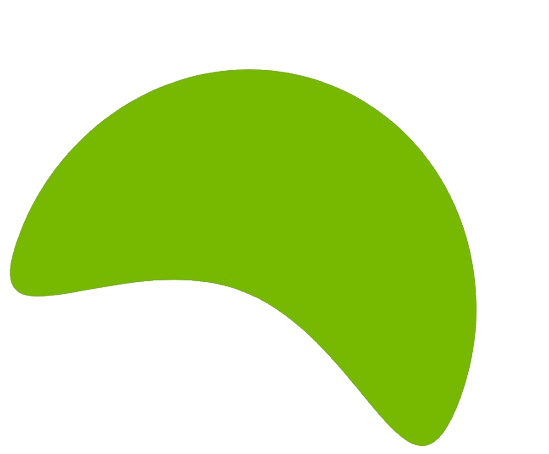
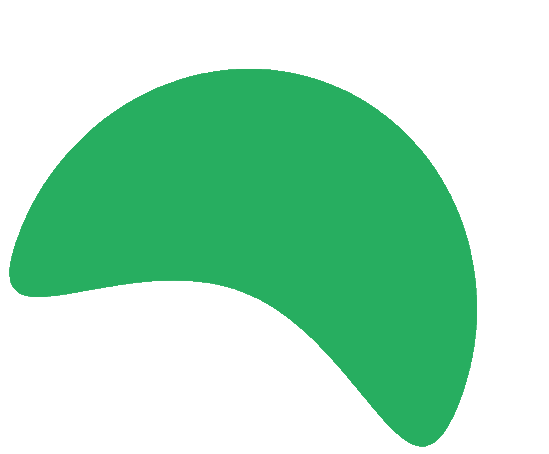
styling

diff --git a/index.html b/index.html
@@ -6,8 +6,8 @@
     <meta name="viewport" content="width=device-width, initial-scale=1.0">
     <meta http-equiv="X-UA-Compatible" content="IE=edge" />
     <meta http-equiv="X-UA-Compatible" content="ie=edge">
-    <title>Byberbyte - Premium Dedicated Servers and Cloud VPS Solutions</title>
-    <link rel=icon href="assets/img/favicon.webp" sizes="20x20" type="image/png">
+    <title>Hyberbyte - Premium Dedicated Servers and Cloud VPS Solutions</title>
+    <link rel=icon href="assets/img/4w.png" sizes="20x20" type="image/png">
 
     <!-- Stylesheet -->
     <link rel="stylesheet" href="assets/css/bootstrap.min.css">
@@ -59,7 +59,11 @@
                 </button>
             </div>
             <div class="logo">
-                <a href="index.html"><img src="assets/img/logo.webp" alt="img"></a>
+                <!-- <a href="index.html"><img src="assets/img/logo.webp" alt="img"></a> -->
+                <!-- <a href="index.html"><img src="assets/img/1.png" alt="img"></a> -->
+                <!-- <a href="index.html"><img src="assets/img/2.png" alt="img"></a> -->
+                <!-- <a href="index.html"><img src="assets/img/3.png" alt="img"></a> -->
+                <a href="index.html"><img src="assets/img/4.png" alt="img"></a>
             </div>
             <div class="nav-right-part nav-right-part-mobile">
                 <a class="search-bar-btn" href="#">
@@ -87,7 +91,7 @@
             </div>
             <div class="nav-right-part nav-right-part-desktop align-self-center">
 
-                <a class="btn btn-base" href="#">Get Started</a>
+                <a class="btn btn-base" href="#contactUs">Get Started</a>
             </div>
         </div>
     </nav>
@@ -108,12 +112,12 @@
                 </div>
                 <div class="col-lg-6 col-md-9 order-lg-first align-self-center">
                     <div class="banner-inner style-white  text-center text-lg-start">
-                        <h4 class="sub-title">Byber Byte</h4>
+                        <h4 class="sub-title">Hyber Byte</h4>
                         <h2 class="title">Premium Dedicated Servers and Cloud VPS Solutions</h2>
                         <p class="content">Unparalleled performance and 24/7 support for your hosting needs.</p>
                         <div class="btn-wrap">
-                            <a class="btn btn-base me-2" href="blog.html">Get Started</a>
-                            <a class="btn btn-border-white" href="contact.html">Contact Us</a>
+                            <a class="btn btn-base me-2" href="#contactUs">Get Started</a>
+                            <a class="btn btn-border-white" href="#contactUs">Contact Us</a>
                         </div>
                     </div>
                 </div>
@@ -160,7 +164,7 @@
                                 <li class="close">Delivery time: within 24 hours
                                 </li>
                             </ul>
-                            <a class="btn btn-black w-100" href="#">Get Started</a>
+                            <a class="btn btn-black w-100" href="#contactUs">Get Started</a>
                         </div>
                     </div>
                 </div>
@@ -189,7 +193,7 @@
                                 </li>
 
                             </ul>
-                            <a class="btn btn-black w-100" href="#">Get Started</a>
+                            <a class="btn btn-black w-100" href="#contactUs">Get Started</a>
                         </div>
                     </div>
                 </div>
@@ -217,7 +221,7 @@
                                 <li class="close">Delivery time: within 24 hours
                                 </li>
                             </ul>
-                            <a class="btn btn-black w-100" href="#">Get Started</a>
+                            <a class="btn btn-black w-100" href="#contactUs">Get Started</a>
                         </div>
                     </div>
                 </div>
@@ -247,7 +251,7 @@
                                 <li class="close">Delivery time: within 24 hours
                                 </li>
                             </ul>
-                            <a class="btn btn-black w-100" href="#">Get Started</a>
+                            <a class="btn btn-black w-100" href="#contactUs">Get Started</a>
                         </div>
                     </div>
                 </div>
@@ -276,7 +280,7 @@
                                 </li>
 
                             </ul>
-                            <a class="btn btn-black w-100" href="#">Get Started</a>
+                            <a class="btn btn-black w-100" href="#contactUs">Get Started</a>
                         </div>
                     </div>
                 </div>
@@ -304,7 +308,7 @@
                                 <li class="close">Delivery time: within 24 hours
                                 </li>
                             </ul>
-                            <a class="btn btn-black w-100" href="#">Get Started</a>
+                            <a class="btn btn-black w-100" href="#contactUs">Get Started</a>
                         </div>
                     </div>
                 </div>
@@ -349,7 +353,7 @@
                                 </li>
 
                             </ul>
-                            <a class="btn btn-black w-100" href="#">Get Started</a>
+                            <a class="btn btn-black w-100" href="#contactUs">Get Started</a>
                         </div>
                     </div>
                 </div>
@@ -378,7 +382,7 @@
                                 </li>
 
                             </ul>
-                            <a class="btn btn-black w-100" href="#">Get Started</a>
+                            <a class="btn btn-black w-100" href="#contactUs">Get Started</a>
                         </div>
                     </div>
                 </div>
@@ -407,7 +411,7 @@
                                 </li>
 
                             </ul>
-                            <a class="btn btn-black w-100" href="#">Get Started</a>
+                            <a class="btn btn-black w-100" href="#contactUs">Get Started</a>
                         </div>
                     </div>
                 </div>
@@ -438,7 +442,7 @@
                                 </li>
 
                             </ul>
-                            <a class="btn btn-black w-100" href="#">Get Started</a>
+                            <a class="btn btn-black w-100" href="#contactUs">Get Started</a>
                         </div>
                     </div>
                 </div>
@@ -467,7 +471,7 @@
                                 </li>
 
                             </ul>
-                            <a class="btn btn-black w-100" href="#">Get Started</a>
+                            <a class="btn btn-black w-100" href="#contactUs">Get Started</a>
                         </div>
                     </div>
                 </div>
@@ -495,7 +499,7 @@
                                 <li>32 TB Traffic*Unlimited Incoming
                                 </li>
                             </ul>
-                            <a class="btn btn-black w-100" href="#">Get Started</a>
+                            <a class="btn btn-black w-100" href="#contactUs">Get Started</a>
                         </div>
                     </div>
                 </div>
@@ -511,10 +515,10 @@
             <div class="row">
                 <div class="col-lg-6 col-md-8 order-lg-last">
                     <div class="about-mask-bg-wrap about-mask-bg-wrap-2 mb-4 mb-lg-0">
-                        <img class="shape-image-sm top_image_bounce" src="assets/img/about/2sm.webp" alt="img">
-                        <img class="shape-image" src="assets/img/about/2s.webp" alt="img">
+                        <!-- <img class="shape-image-sm top_image_bounce" src="assets/img/about/2sm.webp" alt="img"> -->
+                        <img class="shape-image" src="assets/img/about/2s.png" alt="img">
                         <div class="thumb">
-                            <img src="assets/img/about/2.webp" alt="img">
+                            <img src="assets/img/bg/16.jpg" alt="img" width="825" height="auto">
                         </div>
                     </div>
                 </div>
@@ -562,8 +566,8 @@
     <!-- why choose area end -->
 
     <!-- service area start -->
-    <div class="service-area bg-overlay pd-top-120 pd-bottom-90"
-        style="background-image: url('./assets/img/bg/3.jpg');" id="services">
+    <div class="service-area bg-overlay pd-top-120 pd-bottom-90" style="background-image: url('./assets/img/bg/14.jpg');"
+        id="services">
         <div class="container">
             <div class="row">
                 <div class="col-lg-4">
@@ -574,7 +578,7 @@
                         <p class="content">Rae Sed aliquam nisi quis aliquam Vestibulum ante ipsum primis ibus orci
                             luctus etultrices posuebilia rae Sed aliquam nisi quis porttitor gue elitrat oplacer </p>
                         <div class="btn-wrap mt-4 pt-1 mb-4">
-                            <a class="btn btn-small btn-border-white mt-2" href="contact.html">Contact Us</a>
+                            <a class="btn btn-small btn-border-white mt-2" href="#contactUs">Contact Us</a>
                         </div>
                     </div>
                 </div>
@@ -583,34 +587,34 @@
                         <div class="col-md-6">
                             <div class="single-service-inner style-white text-center">
                                 <div class="icon-box">
-                                    <i class="icomoon-cloud-data"></i>
-                                </div>
-                                <div class="details">
-                                    <h3><a href="service-details.html">Dedicated Servers</a></h3>
-                                    <p>Curabitur ullamcorper ultricies nisiam tiamns rhoncus. Maecenas tempus tellus
-                                        endimentum </p>
-                                </div>
-                            </div>
-                        </div>
-                        <div class="col-md-6">
-                            <div class="single-service-inner style-white text-center">
-                                <div class="icon-box">
-                                    <i class="icomoon-cloud-data"></i>
-                                </div>
-                                <div class="details">
-                                    <h3><a href="service-details.html">Cloud VPS</a></h3>
-                                    <p>Curabitur ullamcorper ultricies nisiam tiamns rhoncus. Maecenas tempus tellus
-                                        endimentum </p>
-                                </div>
-                            </div>
-                        </div>
-                        <div class="col-md-6">
-                            <div class="single-service-inner style-white text-center">
-                                <div class="icon-box">
                                     <i class="icomoon-layer"></i>
                                 </div>
                                 <div class="details">
-                                    <h3><a href="service-details.html">Web design</a></h3>
+                                    <h3>Dedicated Servers</h3>
+                                    <p>Curabitur ullamcorper ultricies nisiam tiamns rhoncus. Maecenas tempus tellus
+                                        endimentum </p>
+                                </div>
+                            </div>
+                        </div>
+                        <div class="col-md-6">
+                            <div class="single-service-inner style-white text-center">
+                                <div class="icon-box">
+                                    <i class="icomoon-cloud-data"></i>
+                                </div>
+                                <div class="details">
+                                    <h3>Cloud VPS</h3>
+                                    <p>Curabitur ullamcorper ultricies nisiam tiamns rhoncus. Maecenas tempus tellus
+                                        endimentum </p>
+                                </div>
+                            </div>
+                        </div>
+                        <div class="col-md-6">
+                            <div class="single-service-inner style-white text-center">
+                                <div class="icon-box">
+                                    <i class="icomoon-laptop"></i>
+                                </div>
+                                <div class="details">
+                                    <h3>Web design</h3>
                                     <p>Curabitur ullamcorper ultricies nisiam tiamns rhoncus. Maecenas tempus tellus
                                         endimentum </p>
                                 </div>
@@ -620,15 +624,17 @@
                             <div class="single-service-inner style-white text-center">
                                 <div class="icon-box">
                                     <i class="icomoon-application"></i>
+                                    <!-- <i class="fab fa-server"></i> -->
+
                                 </div>
                                 <div class="details">
-                                    <h3><a href="service-details.html">App development</a></h3>
+                                    <h3>App development</h3>
                                     <p>Curabitur ullamcorper ultricies nisiam tiamns rhoncus. Maecenas tempus tellus
                                         endimentum </p>
                                 </div>
                             </div>
                         </div>
-                        
+
                     </div>
                 </div>
             </div>
@@ -682,16 +688,19 @@
     <!-- call to action start -->
 
     <!-- footer area start -->
-    <footer class="footer-area bg-black bg-cover">
+    <footer class="footer-area bg-black bg-cover"  style="background-image: url('./assets/img/bg/13.jpg');">
         <div class="container">
             <div class="row">
-                <div class="col-lg-3 col-md-6">
+                <div class="col-lg-4 col-md-6">
                     <div class="widget widget_about">
-                        <h4 class="widget-title">About company</h4>
+                        <!-- <h4 class="widget-title">About company</h4> -->
+                        <a href="index.html"><img src="assets/img/4w.png" alt="img" width="45%"></a>
                         <div class="details">
 
-                            <a href="mailto:info@hyberbyte.com">info@hyberbyte.com</a>
-                            <ul class="social-media">
+                            <p class="m-3" style="color: lightgrey;">Premium Dedicated Servers and Cloud VPS Solutions
+                                Premium Dedicated Servers and Cloud VPS Solutions</p>
+                           
+                            <!-- <ul class="social-media">
                                 <li>
                                     <a class="facebook" href="#">
                                         <i class="fab fa-facebook-f"></i>
@@ -712,42 +721,37 @@
                                         <i class="fab fa-youtube"></i>
                                     </a>
                                 </li>
-                            </ul>
+                            </ul> -->
                         </div>
                     </div>
                 </div>
-                <div class="col-lg-3 col-md-6">
-                    <div class="widget widget_nav_menu">
-                        <h4 class="widget-title">Service</h4>
-                        <ul>
-                            <li><a href="service.html">Web design</a></li>
-                            <li><a href="service.html">Digital marketing </a></li>
-                            <li><a href="service.html">It management</a></li>
-                            <li><a href="service.html">Cloud services</a></li>
-                            <li><a href="service.html">Machine learning</a></li>
-                        </ul>
-                    </div>
-                </div>
-                <div class="col-lg-3 col-md-6">
+               
+                <div class="col-lg-4 col-md-6">
                     <div class="widget widget_nav_menu">
                         <h4 class="widget-title">Useful link</h4>
                         <ul>
-                            <li><a href="about.html">About Us</a></li>
-                            <li><a href="team.html">Team </a></li>
-                            <li><a href="project.html">Portfolio</a></li>
-                            <li><a href="service.html">Service</a></li>
-                            <li><a href="contact.html">Contact Us</a></li>
+                            <li><a href="#dds">Dedicated Servers</a></li>
+                            <li><a href="#cvps">Cloud VPS </a></li>
+                            <li><a href="#wcu">Why Choose Us</a></li>
+                            <li><a href="#services">Our Services</a></li>
+                            <!-- <li><a href="contact.html">Contact Us</a></li>  -->
                         </ul>
                     </div>
                 </div>
-                <div class="col-lg-3 col-md-6">
+                <div class="col-lg-4 col-md-6">
                     <div class="widget widget_subscribe">
-                        <h4 class="widget-title">Contact us</h4>
+                        <h4 class="widget-title mb-1">Contact us</h4>
                         <div class="single-input-inner style-border style-bg-none">
                             <input type="text" placeholder="Your Email">
                             <button><i class="fa fa-arrow-right"></i></button>
                         </div>
-                        <label><input type="checkbox">Maecenas tempususcondime honcus sem quam libero</label>
+                        <h4 class="widget-title mt-3 mb-1">Email us</h4>
+                        <div class="single-input-inner style-border style-bg-none">
+                            <a href="mailto:info@hyberbyte.com" style="color: white; ">info@hyberbyte.com</a>
+
+                        </div>
+
+                        <!-- <label><input type="checkbox">Maecenas tempususcondime honcus sem quam libero</label> -->
                     </div>
                 </div>
             </div>

diff --git a/assets/css/style.css b/assets/css/style.css
@@ -44,8 +44,9 @@ Version: 1.0.5
 -----------------*/
 @import url("https://fonts.googleapis.com/css?family=Rajdhani:400,500,600,700|Poppins:400,500,600,700|Rubik:400,500,600,700|family=Inter:wght@300;400;500;600;700;800&family=Roboto:wght@300;400;500;700&display=swap");
 
+/* 76b900 */
 :root {
-  --main-color: #76b900;
+  --main-color: #27ae60;
   --main-color2: #EE0020;
   --heading-color: #151423;
   --paragraph-color: #616161;
@@ -2075,7 +2076,7 @@ ul {
 
 .navbar-area .nav-container .logo a img {
   height: auto;
-  max-width: 96px;
+  max-width: 150px;
 }
 
 .navbar-area .nav-container .btn-transparent {
